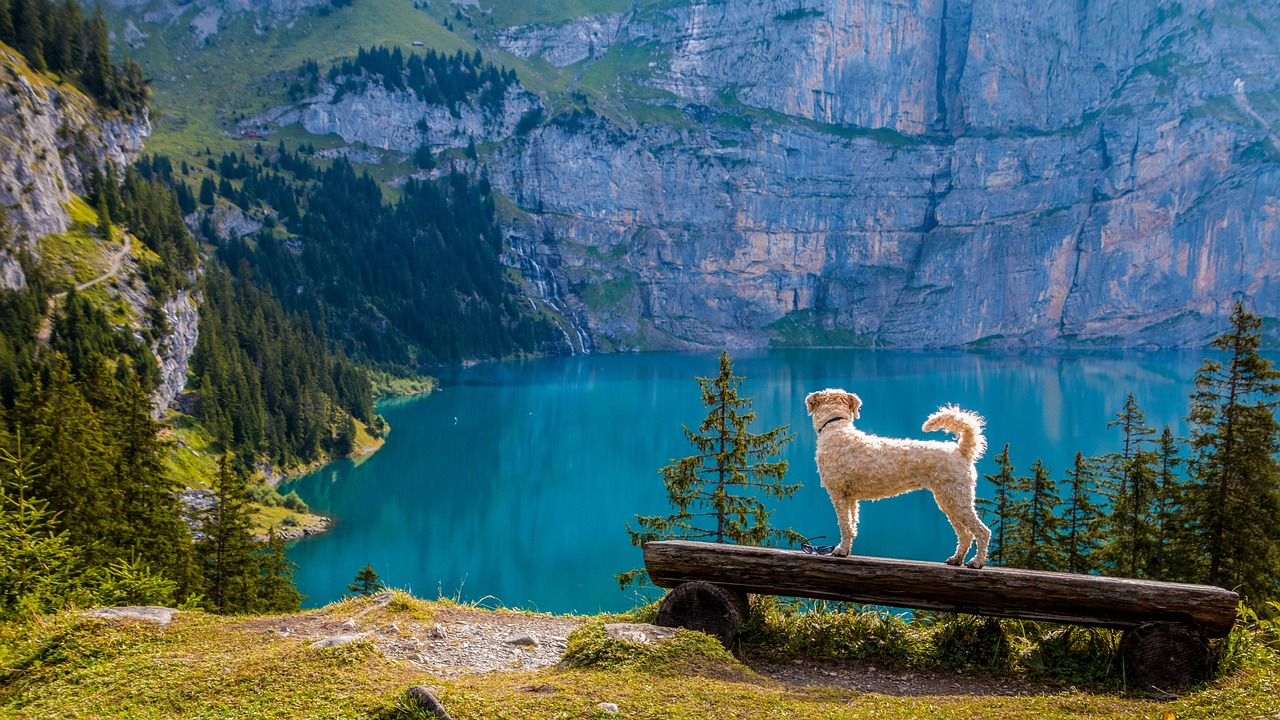
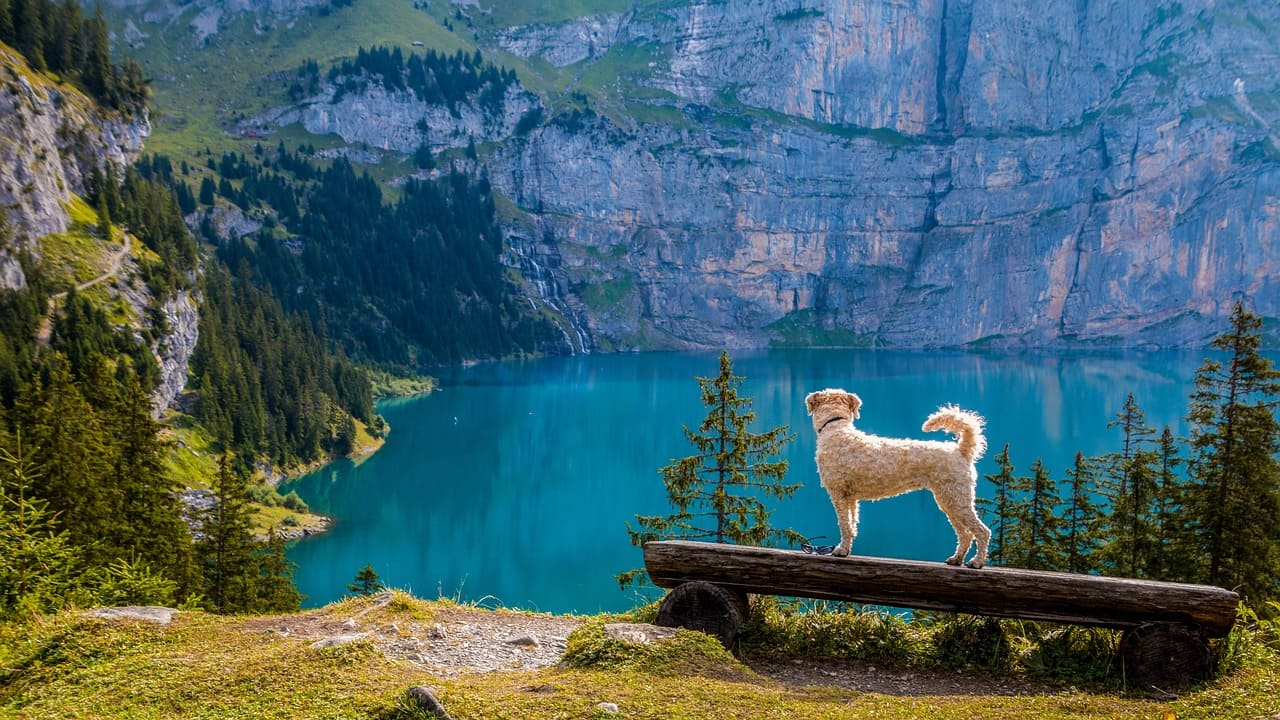
accessibility

diff --git a/app/(pages)/balade/[slug]/page.tsx b/app/(pages)/balade/[slug]/page.tsx
@@ -7,7 +7,6 @@ import LargeTitle from '../../../../ui/atoms/largeTitle/largeTitle';
 import { Swiper, SwiperSlide } from 'swiper/react';
 import Image from 'next/image';
 
-// Import Swiper styles
 import 'swiper/css';
 import 'swiper/css/free-mode';
 import 'swiper/css/navigation';
@@ -39,15 +38,6 @@ export default function Page({
     handleResize();
     window.addEventListener('resize', handleResize);
   }, [isMobile]);
-
-  const reviews = [
-    {
-      id: 1,
-      name: 'John Doe',
-      content:
-        'Lorem ipsum dolor sit amet, consectetur adipiscing elit. Sed euismod, diam eu placerat ullamcorper, odio libero placera.',
-    },
-  ];
 
   const handleNote = (note: number) => {
     switch (note) {
@@ -135,12 +125,12 @@ export default function Page({
                     {handleNote(dogWalk.note)}
                   </span>
                 </p>
-                <p className='mt-4'>
+                {/* <p className='mt-4'>
                   &#x25AE; A 20km de votre position actuelle
-                </p>
+                </p> */}
                 <BlocTextWithspan
                   dogWalk={dogWalk.waterPoint}
-                  text='Point deau buvable pour les chiens :'
+                  text='Point d&#039;eau buvable pour les chiens :'
                 />
                 <BlocTextWithspan
                   dogWalk={dogWalk.obligatoryLeash}

diff --git a/ui/molecules/contentNavigation/contentNavigation.tsx b/ui/molecules/contentNavigation/contentNavigation.tsx
@@ -45,7 +45,7 @@ function ContentNavigation() {
                 clipRule='evenodd'
               ></path>
             </svg>
-            <span className='sr-only'>Search</span>
+            <span className='sr-only'>Recherche</span>
           </button>
           <div className='relative hidden md:block'>
             <div className='absolute inset-y-0 left-0 flex items-center pl-3 pointer-events-none'>
@@ -62,7 +62,7 @@ function ContentNavigation() {
                   clipRule='evenodd'
                 ></path>
               </svg>
-              <span className='sr-only'>Search icon</span>
+              <span className='sr-only'>Icon recherche</span>
             </div>
             <input
               type='text'
@@ -80,7 +80,7 @@ function ContentNavigation() {
             aria-controls='navbar-search'
             aria-expanded='false'
           >
-            <span className='sr-only'>Open menu</span>
+            <span className='sr-only'>Menu ouvert</span>
             <svg
               className='w-6 h-6'
               aria-hidden='true'

diff --git a/app/layout.tsx b/app/layout.tsx
@@ -9,6 +9,11 @@ const inter = Inter({ subsets: ['latin'] });
 export const metadata = {
   title: 'Au fil des pattes',
   description: 'Des promenades sur mesure pour satisfaire tous les toutous!',
+  viewport: {
+    width: 'device-width',
+    initialScale: 1,
+    maximumScale: 1,
+  },
 };
 
 export default function RootLayout({
@@ -17,9 +22,11 @@ export default function RootLayout({
   children: React.ReactNode;
 }) {
   return (
-    <html lang='en'>
+    <html lang='fr'>
       <body suppressHydrationWarning={true} className={inter.className}>
-        <ContentNavigation />
+        <header>
+          <ContentNavigation />
+        </header>
         <Banner />
         {children}
         <Footer />

diff --git a/ui/atoms/banner/banner.tsx b/ui/atoms/banner/banner.tsx
@@ -1,16 +1,17 @@
 import Image from 'next/image';
-import banner from '../../../public/images/banner.jpg';
+import banner from '../../../public/images/banner.webp';
 import Link from 'next/link';
 
 function Banner() {
   return (
-    <Link href='/' prefetch={false}>
+    <Link href='/' role='bannière'>
       <Image
         className='w-full h-1/2 object-cover md:h-96 lg:h-1/2 xl:h-160 '
         src={banner}
-        alt='banner'
+        alt='Un chien debout sur un banc en bois, regardant au loin avec un arrière plan de montagnes et de forêts.'
         placeholder='blur'
-        quality={100}
+        height={640}
+        width={1490}
       />
     </Link>
   );

diff --git a/ui/atoms/button/button.tsx b/ui/atoms/button/button.tsx
@@ -1,9 +1,14 @@
-import React from 'react'
+import React from 'react';
 
-function Button({text}: { text: string }): JSX.Element {
-    return ( 
-        <button className='w-max text-white bg-primary hover:bg-secondary rounded-lg px-5 py-2.5 focus:ring-4 focus:ring-tertiary focus:outline-none'>{text}</button>
-     );
+function Button({ text }: { text: string }): JSX.Element {
+  return (
+    <button
+      className='w-max text-white bg-primary hover:bg-secondary rounded-lg px-5 py-2.5 focus:ring-4 focus:ring-tertiary focus:outline-none'
+      aria-label={text}
+    >
+      {text}
+    </button>
+  );
 }
 
 export default Button;

diff --git a/ui/molecules/footer/footer.tsx b/ui/molecules/footer/footer.tsx
@@ -84,7 +84,7 @@ function Footer() {
           <div className='sm:flex sm:items-center sm:justify-between'>
             <span className='text-sm text-gray-500 sm:text-center dark:text-gray-400'>
               © 2023
-              <LinkOutline href='https://flowbite.com/' text=' Au fil des pattes™'/>
+              <LinkOutline href='https://au-fil-des-pattes.vercel.app' text=' Au fil des pattes™'/>
               . Tous droits réservés.
             </span>
             {/* <div className='flex mt-4 space-x-6 sm:justify-center sm:mt-0'>

diff --git a/ui/atoms/blocTextWithSpan/ blocTextWithSpan.tsx b/ui/atoms/blocTextWithSpan/ blocTextWithSpan.tsx
@@ -1,12 +1,10 @@
-function BlocTextWithspan({ dogWalk, text} : { dogWalk: any, text: string }) {
-    return ( 
-        <p className='mt-4'>
-        {text}
-        <span className='font-semibold'>
-          {dogWalk ? ' Oui' : ' Non'}
-        </span>
-      </p>
-     );
+function BlocTextWithspan({ dogWalk, text }: { dogWalk: any; text: string }) {
+  return (
+    <p className='mt-4'>
+      {text}
+      <span className='font-semibold'>{dogWalk ? ' Oui' : ' Non'}</span>
+    </p>
+  );
 }
 
 export default BlocTextWithspan;

diff --git a/ui/organisms/pageWalk/pageWalk.tsx b/ui/organisms/pageWalk/pageWalk.tsx
@@ -23,7 +23,7 @@ function PageWalk() {
 
   return (
     <section className='h-full flex flex-col justify-evenly pt-10 pb-10'>
-      <LargeTitle title='Les dernieres balade' />
+      <LargeTitle title='Toutes les balades' />
 
       <div className='container relative block mt-10 mx-auto'>
         <div className='absolute inset-y-0 left-0 flex items-center pl-3 pointer-events-none'>

diff --git a/ui/molecules/mapWalk/mapWalk.tsx b/ui/molecules/mapWalk/mapWalk.tsx
@@ -68,6 +68,7 @@ function MapWalk({ dogWalk, coordinates }: { dogWalk: DogWalk[], coordinates?: [
           >
             <Link
               href={`/balade/${selectedWalk.slug}`}
+               
               className='block relative top-9 left-4 bg-white rounded-lg border-1 border-black p-1 shadow-md	'
             >
               <p>{selectedWalk.name}</p>

diff --git a/ui/atoms/linkOutline.tsx b/ui/atoms/linkOutline.tsx
@@ -2,7 +2,7 @@ import Link from 'next/link';
 
 function LinkOutline({href, text}: {href: string ; text: string}) {
     return ( 
-        <Link href={href} className='focus:ring-4 focus:ring-tertiary focus:outline-none'>
+        <Link href={href}   className='focus:ring-4 focus:ring-tertiary focus:outline-none'>
             {text}
         </Link>
      );

diff --git a/ui/atoms/liNav/liNav.tsx b/ui/atoms/liNav/liNav.tsx
@@ -5,6 +5,7 @@ function LiNav({ text, href }: { text: string; href: string}) {
     <li>
       <Link
         href={href}
+         
         className='block py-2 pl-3 pr-4 text-gray-900 rounded hover:bg-gray-100 focus:ring-4 focus:ring-tertiary focus:outline-none md:hover:bg-transparent md:hover:text-primary md:p-0  '
         aria-current='page'
       >

diff --git a/ui/molecules/cardWalk/cardWalk.tsx b/ui/molecules/cardWalk/cardWalk.tsx
@@ -21,7 +21,7 @@ function CardWalk({
   return (
     <Link
       href={`balade/${slug}`}
-      prefetch={true}
+       
       className='flex flex-col justify-between w-auto mb-4 xs:last:mb-0 md:w-72 lg:w-52 xl:w-72 focus:ring-4 focus:ring-tertiary focus:outline-none '
     >
       <picture className='mb-4'>    
